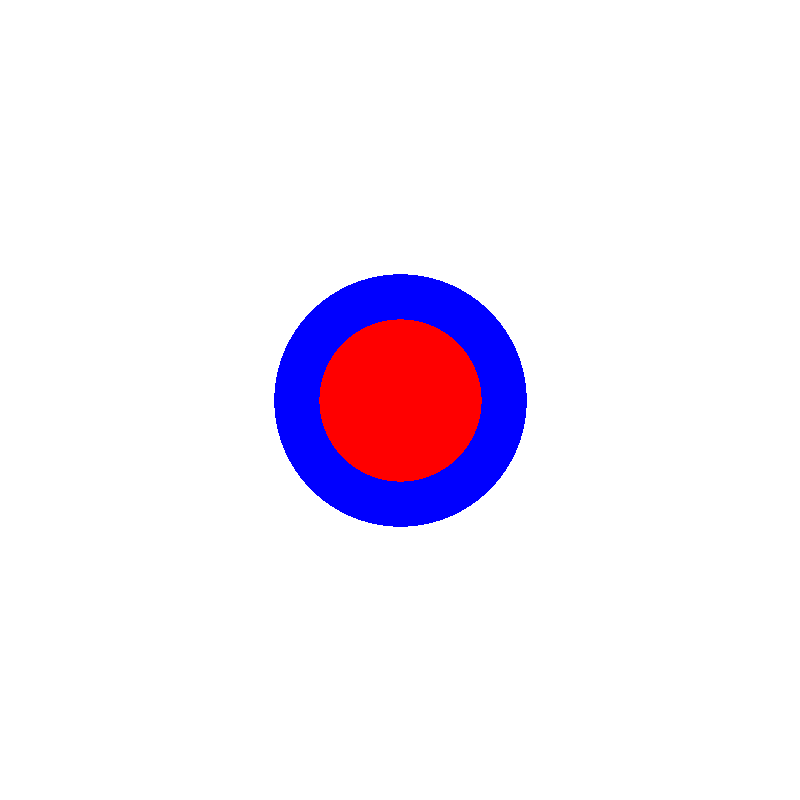
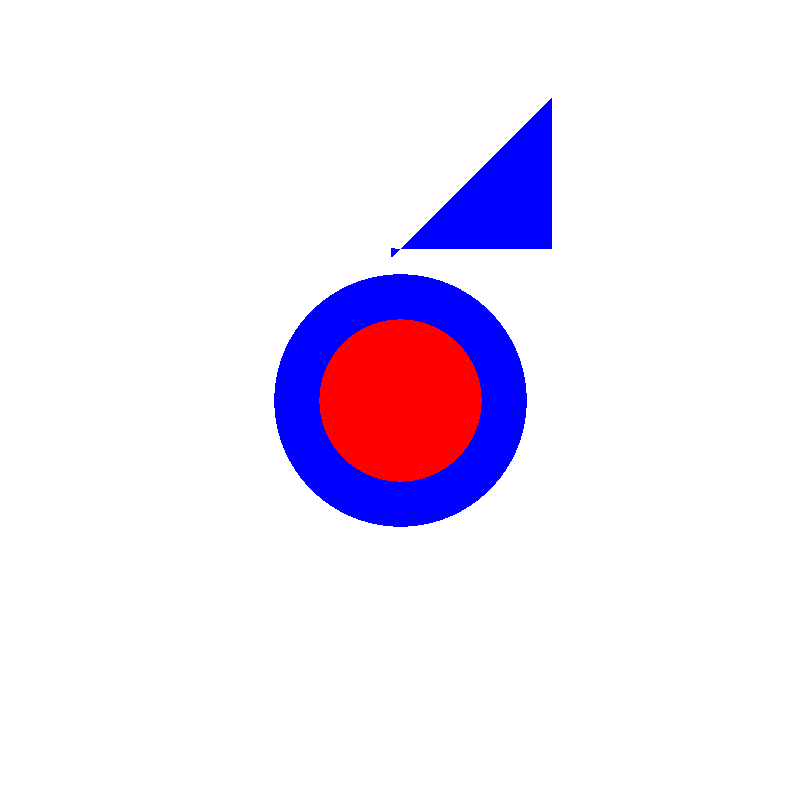
Triangle class and Polygon class added, the code already accepts triangles, and you can create shapes instead of triangles

Changed region(s): [[0.5, 0.125, 0.6875, 0.3125]]

diff --git a/src/Objects/Triangle.java b/src/Objects/Triangle.java
@@ -1,0 +1,76 @@
+package Objects;
+
+import Interfaces.IIntersectable;
+import Tools.Intersection;
+import Tools.Ray;
+import Tools.Vector3D;
+
+public class Triangle implements IIntersectable {
+
+    public static final double EPSILON = 0.000000001;
+
+    private Vector3D[] vertices;
+    private Vector3D[] normals;
+
+    public Triangle(Vector3D vertex1, Vector3D vertex2, Vector3D vertex3){
+        setVertices(vertex1, vertex2, vertex3);
+        setNormals(null);
+    }
+
+    public Vector3D[] getVertices() {
+        return vertices;
+    }
+
+    public void setVertices(Vector3D vertex1, Vector3D vertex2, Vector3D vertex3){
+        Vector3D[] vertices = new Vector3D[]{vertex1, vertex2, vertex3};
+        setVertices(vertices);
+    }
+
+    private void setVertices(Vector3D[] vertices) {
+        this.vertices = vertices;
+    }
+
+    public Vector3D[] getNormals() {
+        return normals;
+    }
+
+    public Vector3D getNormal(){
+        return Vector3D.ZERO();
+    }
+
+    public void setNormals(Vector3D[] normals) {
+        this.normals = normals;
+    }
+
+    @Override
+    public Intersection getIntersection(Ray ray) {
+        Intersection intersection = new Intersection(null, -1, null, null);
+
+        Vector3D[] vertices = getVertices();
+        Vector3D v2v0 = Vector3D.subtraction(vertices[2], vertices[0]);
+        Vector3D v1v0 = Vector3D.subtraction(vertices[1], vertices[0]);
+        Vector3D vectorP = Vector3D.crossProduct(ray.getDirection(), v1v0);
+        double determinant = Vector3D.dotProduct(v2v0, vectorP);
+        double invertedDeterminant = 1.0 / determinant;
+        Vector3D vectorT = Vector3D.subtraction(ray.getOrigin(), vertices[0]);
+
+        //if the sentence is fulfilled, the ray is out of range
+        double u = Vector3D.dotProduct(vectorT, vectorP) * invertedDeterminant;
+        if(u < 0 || u > 1){
+            return intersection;
+        }
+
+        Vector3D vectorQ = Vector3D.crossProduct(vectorT, v2v0);
+        double v = Vector3D.dotProduct(ray.getDirection(), vectorQ) * invertedDeterminant;
+
+        //if the sentence is fulfilled, the ray is out of range
+        if(v < 0 || (u + v) > (1.0 + EPSILON)){
+            return intersection;
+        }
+
+        double t = Vector3D.dotProduct(vectorQ, v1v0) * invertedDeterminant;
+        intersection.setDistance(t);
+
+        return intersection;
+    }
+}

diff --git a/src/Objects/Polygon.java b/src/Objects/Polygon.java
@@ -1,0 +1,65 @@
+package Objects;
+
+import Tools.Intersection;
+import Tools.Ray;
+import Tools.Vector3D;
+
+import java.awt.*;
+import java.util.Arrays;
+import java.util.HashSet;
+import java.util.List;
+import java.util.Set;
+
+public class Polygon extends Object3D {
+
+    public List<Triangle> triangles;
+
+    public List<Triangle> getTriangles() {
+        return triangles;
+    }
+
+    public Polygon(Vector3D position, Triangle[] triangles, Color color){
+        super(position, color);
+        setTriangles(triangles);
+    }
+
+    public void setTriangles(Triangle[] triangles) {
+        Vector3D position = getPosition();
+        Set<Vector3D> uniqueVertices = new HashSet<Vector3D>();
+        for(Triangle triangle : triangles){
+            uniqueVertices.addAll(Arrays.asList(triangle.getVertices()));
+        }
+
+        for(Vector3D vertex : uniqueVertices){
+            vertex.setX(vertex.getX() + position.getX());
+            vertex.setY(vertex.getY() + position.getY());
+            vertex.setZ(vertex.getZ() + position.getZ());
+        }
+
+        this.triangles = Arrays.asList(triangles);
+    }
+
+    @Override
+    public Intersection getIntersection(Ray ray) {
+        double distance = -1;
+        Vector3D normal = Vector3D.ZERO();
+        Vector3D position = Vector3D.ZERO();
+
+        //Search the best intersection
+        for(Triangle triangle : getTriangles()){
+            Intersection intersection = triangle.getIntersection(ray);
+            double intersectionDistance = intersection.getDistance();
+            if(intersection != null && intersectionDistance > 0 && (intersectionDistance < distance ||distance < 0)){
+                distance = intersectionDistance;
+                position = Vector3D.sum(ray.getOrigin(), Vector3D.scalarMultiplication(ray.getDirection(), distance));
+                normal = triangle.getNormal();
+            }
+        }
+
+        if(distance == -1){
+            return null;
+        }
+
+        return new Intersection(position, distance, normal, this);
+    }
+}

diff --git a/src/Main/Raytracer.java b/src/Main/Raytracer.java
@@ -1,7 +1,9 @@
 package Main;
 
 import Objects.Object3D;
+import Objects.Polygon;
 import Objects.Sphere;
+import Objects.Triangle;
 import Tools.*;
 
 import javax.imageio.ImageIO;
@@ -19,10 +21,18 @@ public class Raytracer {
     public static void StartRaytracer(){
         System.out.println(new Date());
 
-        Scene scene01 = new Scene(8.0f,18.0f);
+
+
+        Scene scene01 = new Scene(9f,18.0f);
         scene01.setCamera(new Camera(new Vector3D(0, 0, 0), 160, 160, 800, 800));
         scene01.addObject(new Sphere(new Vector3D(0, 0, 14), 0.5f, Color.RED));
         scene01.addObject(new Sphere(new Vector3D(0, 0, 18), 1f, Color.BLUE));
+        scene01.addObject(new Polygon(new Vector3D(-1,-1,15),
+                new Triangle[]{
+                        new Triangle(Vector3D.ZERO(), new Vector3D(1,0,0), new Vector3D(1,-1,0)),
+                        new Triangle(Vector3D.ZERO(), new Vector3D(0,0,-1), new Vector3D(1,-1,0))
+                },
+                Color.BLUE));
 
         BufferedImage image = raytrace(scene01);
         File outputImage = new File("image.png");

diff --git a/src/Objects/Object3D.java b/src/Objects/Object3D.java
@@ -1,12 +1,13 @@
 package Objects;
 
+import Interfaces.IIntersectable;
 import Tools.Intersection;
 import Tools.Ray;
 import Tools.Vector3D;
 
 import java.awt.*;
 
-public abstract class Object3D {
+public abstract class Object3D implements IIntersectable {
     private Vector3D position;
     private Color color;
 
@@ -15,7 +16,7 @@ public abstract class Object3D {
      * @param position
      * @param color
      */
-    public Object3D(Vector3D position, Color color) {
+    public Object3D(Vector3D position, Color color){
         setPosition(position);
         setColor(color);
     }
@@ -37,11 +38,4 @@ public abstract class Object3D {
     public void setColor(Color color) {
         this.color = color;
     }
-
-    /**
-     * Abstract function to return an intersection
-     * @param ray
-     * @return Intersection
-     */
-    public abstract Intersection getIntersection(Ray ray);
 }

diff --git a/src/Interfaces/IIntersectable.java b/src/Interfaces/IIntersectable.java
@@ -1,0 +1,8 @@
+package Interfaces;
+
+import Tools.Intersection;
+import Tools.Ray;
+
+public interface IIntersectable {
+    public abstract Intersection getIntersection(Ray ray);
+}
